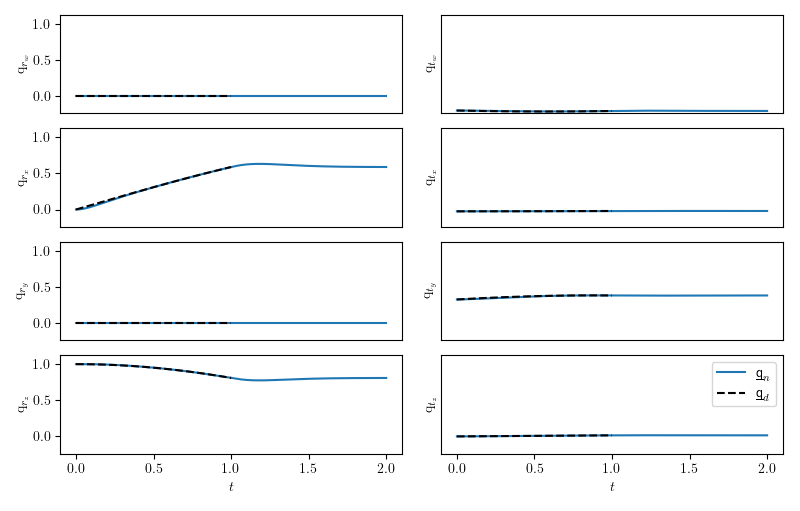
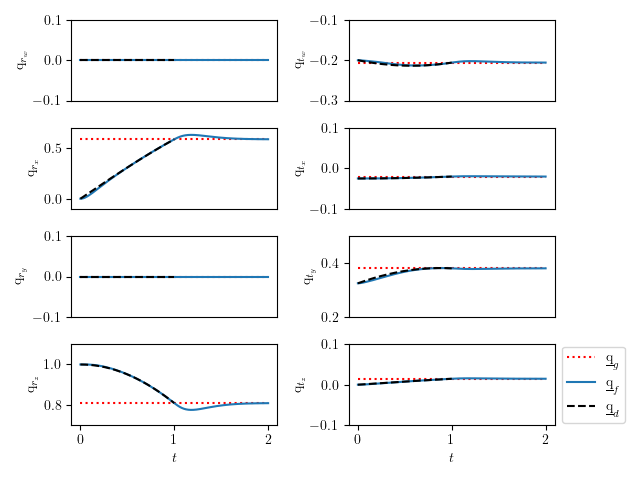
Update figure generation files

diff --git a/src/custom_arm/custom_ur5/src/dmp_test.py b/src/custom_arm/custom_ur5/src/dmp_test.py
@@ -12,6 +12,19 @@ from pyquaternion import Quaternion
 np.set_printoptions(precision=3, suppress=True)
 plt.rcParams.update({"text.usetex": True})
 
+
+def draw_axes(ax, dq_list, l_=.05):
+    for dq_i in dq_list:
+        r_i = dq_i.q_r
+        p_i = 2 * dq_log(dq_i).q_d
+        u_i = r_i.rotate(Quaternion(vector=[1, 0, 0]))
+        v_i = r_i.rotate(Quaternion(vector=[0, 1, 0]))
+        w_i = r_i.rotate(Quaternion(vector=[0, 0, 1]))
+        ax.quiver(p_i.x, p_i.y, p_i.z, u_i.x, u_i.y, u_i.z, length=l_, color=[1,0,0])
+        ax.quiver(p_i.x, p_i.y, p_i.z, v_i.x, v_i.y, v_i.z, length=l_, color=[0,1,0])
+        ax.quiver(p_i.x, p_i.y, p_i.z, w_i.x, w_i.y, w_i.z, length=l_, color=[0,0,1])
+
+
 def main():
     # Generate movement data
     t_vec, dq_vec = gen_movement(r=.40, n=1000)    # .35
@@ -31,54 +44,128 @@ def main():
     dq_0, dq_g = [dq_vec[0], dq_vec[-1]]
     tw_0 = DualQuaternion.from_dq_array(np.zeros(8))
 
-    _, p_vec = pose_from_dq(dq_vec)
-
     tau = 1
     fac = 1
     t_rec = np.linspace(t_vec[0], 2*fac*t_vec[-1], num=fac*t_vec.shape[0])
 
     dq_rec, tw_rec = dmp_obj.fit_model(t_rec, dq_0, tw_0, dq_g, tau=tau)
 
-    # Plot movement data
-    plt.figure()
     dq_vec_npa = dql_to_npa(dq_vec)
     dq_rec_npa = dql_to_npa(dq_rec)
-    min_lim = np.min([dq_vec_npa, dq_rec_npa]) * 1.125
-    max_lim = np.max([dq_vec_npa, dq_rec_npa]) * 1.125
+
+    q_vec, p_vec = pose_from_dq(dq_vec)
+    q_rec, p_rec = pose_from_dq(dq_rec)
+
+    # Plot synthetic data
+    plt.figure()
     txt_var = ["w", "x", "y", "z"]
     for i in range(4):
+        min_lim = np.round(np.min(dq_vec_npa[:, i]), 1) - .1
+        max_lim = np.round(np.max(dq_vec_npa[:, i]), 1) + .1
         label = txt_var[i] 
         evn = 2 * (1 + i % 4)
         plt.subplot(4, 2, evn - 1)
-        plt.plot(t_rec, dq_rec_npa[:, i])
-        plt.plot(t_vec, dq_vec_npa[:, i], '--k')
+        plt.plot(t_vec, dq_vec_npa[:, i])
         plt.ylim(min_lim, max_lim)
         plt.ylabel(r"$\mathrm{q}_{r_%s}$" % label)
         if (i == 3):
             plt.xlabel("$t$")
         else:
             plt.xticks([])
+        min_lim = np.round(np.min(dq_rec_npa[:, i + 4]), 1) - .1
+        max_lim = np.round(np.max(dq_rec_npa[:, i + 4]), 1) + .1
         plt.subplot(4, 2, evn)
-        plt.plot(t_rec, dq_rec_npa[:, i + 4], label=r"$\underline{q}_{n}$")
-        plt.plot(t_vec, dq_vec_npa[:, i + 4], '--k', label=r"$\underline{q}_{d}$")
+        plt.plot(t_vec, dq_vec_npa[:, i + 4])
         plt.ylim(min_lim, max_lim)
         plt.ylabel(r"$\mathrm{q}_{t_%s}$" % label)
-        plt.yticks([])
         if (i == 3):
             plt.xlabel("$t$")
-            plt.legend()
         else:
             plt.xticks([])
-    plt.tight_layout(pad=1.0)
+    plt.tight_layout()
+    plt.show()
+
+    fig = plt.figure()
+    ax_1 = fig.add_subplot(projection='3d')
+    ax_1.plot(p_vec[:, 0], p_vec[:, 1], p_vec[:, 2])
+    draw_axes(ax_1, dq_vec[::99], .02)
+    ax_1.set_proj_type('ortho')
+    ax_1.view_init(elev=0, azim=-90)
+    ax_1.set_box_aspect((1, 1, 1))
+    ax_1.set_xlabel(r'$x$')
+    ax_1.set_yticks([])
+    ax_1.set_zlabel(r'$z$')
+    plt.tight_layout()
+    plt.show()
+
+    fig = plt.figure()
+    ax_1 = fig.add_subplot(projection='3d')
+    ax_1.plot(p_rec[:, 0], p_rec[:, 1], p_rec[:, 2])
+    draw_axes(ax_1, dq_rec[::99], .02)
+    ax_1.set_proj_type('ortho')
+    ax_1.view_init(elev=0, azim=-90)
+    ax_1.set_box_aspect((1, 1, 1))
+    ax_1.set_xlabel(r'$x$')
+    ax_1.set_yticks([])
+    ax_1.set_zlabel(r'$z$')
+    plt.tight_layout()
+    plt.show()
+    
+    # Plot movement data
+    plt.figure()
+    txt_var = ["w", "x", "y", "z"]
+    for i in range(4):
+        min_lim = np.round(np.min(dq_rec_npa[:, i]), 1) - .1
+        max_lim = np.round(np.max(dq_rec_npa[:, i]), 1) + .1
+        label = txt_var[i] 
+        evn = 2 * (1 + i % 4)
+        plt.subplot(4, 2, evn - 1)
+        plt.hlines(dq_vec_npa[-1, i], 0, t_rec[-1], [(1, 0, 0)], "dotted", label=r"$\underline{\mathrm{q}}_g$")
+        plt.plot(t_rec, dq_rec_npa[:, i])
+        plt.plot(t_vec, dq_vec_npa[:, i], "--k")
+        plt.ylim(min_lim, max_lim)
+        plt.ylabel(r"$\mathrm{q}_{r_%s}$" % label)
+        if (i == 3):
+            plt.xlabel("$t$")
+        else:
+            plt.xticks([])
+        min_lim = np.round(np.min(dq_rec_npa[:, i + 4]), 1) - .1
+        max_lim = np.round(np.max(dq_rec_npa[:, i + 4]), 1) + .1
+        plt.subplot(4, 2, evn)
+        plt.hlines(dq_vec_npa[-1, i + 4], 0, t_rec[-1], [(1, 0, 0)], "dotted", label=r"$\underline{\mathrm{q}}_g$")
+        plt.plot(t_rec, dq_rec_npa[:, i + 4], label=r"$\underline{\mathrm{q}}_{f}$")
+        plt.plot(t_vec, dq_vec_npa[:, i + 4], "--k", label=r"$\underline{\mathrm{q}}_{d}$")
+        plt.ylim(min_lim, max_lim)
+        plt.ylabel(r"$\mathrm{q}_{t_%s}$" % label)
+        if (i == 3):
+            plt.xlabel("$t$")
+        else:
+            plt.xticks([])
+    plt.legend(loc='center left', bbox_to_anchor=(1.0, 0.5))
+    plt.tight_layout()
+    plt.show()
 
     # plt.figure()
-    # q_vec, p_vec = pose_from_dq(dq_vec)
-    # q_rec, p_rec = pose_from_dq(dq_rec)
-    # plt.subplot(2, 1, 1)
-    # plt.hlines(p_vec[-1, :], 0, t_rec[-1], None, 'dotted')
-    # plt.plot(t_rec, p_rec)
-    # plt.plot(t_vec, p_vec, '--')
+    # labels = ['x', 'y', 'z']
+    # for i in range(3):
+    #     min_lim = np.round(np.min(p_rec[:, i]), 1) - .05
+    #     max_lim = np.round(np.max(p_rec[:, i]), 1) + .05
+    #     plt.subplot(3, 1, i + 1)
+    #     plt.ylabel(r'$\mathrm{p}_%s$' % labels[i])
+    #     plt.hlines(p_vec[-1, i], 0, t_rec[-1], [(1, 0, 0)], 'dotted', label=r'$\mathrm{p}_g$')
+    #     plt.plot(t_rec, p_rec[:, i], label=r'$\mathrm{p}_f$')
+    #     plt.plot(t_vec, p_vec[:, i], '--k', label=r'$\mathrm{p}_d$')
+    #     plt.ylim(min_lim, max_lim)
+    #     if (i < 2):
+    #         plt.xticks([])
+    #     else:
+    #         plt.xlabel(r'$t$')
+    #         plt.legend(loc='lower right')
+
+    # plt.figure()
     # plt.subplot(2, 1, 2)
+    # plt.xlabel(r'$t$')
+    # plt.ylabel(r'$\mathrm{q}_r$')
     # plt.hlines(q_vec[-1, :], 0, t_rec[-1], None, 'dotted')
     # plt.plot(t_rec, q_rec)
     # plt.plot(t_vec, q_vec, '--')
@@ -104,22 +191,10 @@ def main():
     # ax_1.axes.set_zlim3d(bottom=0., top=1.5)
     # ax_1.set_proj_type('ortho')
 
-    # def draw_axes(dq_list):
-    #     l_ = .05
-    #     for dq_i in dq_list:
-    #         r_i = dq_i.q_r
-    #         p_i = 2 * dq_log(dq_i).q_d
-    #         u_i = r_i.rotate(Quaternion(vector=[1, 0, 0]))
-    #         v_i = r_i.rotate(Quaternion(vector=[0, 1, 0]))
-    #         w_i = r_i.rotate(Quaternion(vector=[0, 0, 1]))
-    #         ax_1.quiver(p_i.x, p_i.y, p_i.z, u_i.x, u_i.y, u_i.z, length=l_, color=[1,0,0])
-    #         ax_1.quiver(p_i.x, p_i.y, p_i.z, v_i.x, v_i.y, v_i.z, length=l_, color=[0,1,0])
-    #         ax_1.quiver(p_i.x, p_i.y, p_i.z, w_i.x, w_i.y, w_i.z, length=l_, color=[0,0,1])
-
-    # draw_axes(dq_vec[::100])
-    # draw_axes(dq_rec[::100])
+    # draw_axes(ax_1, dq_vec[::100])
+    # draw_axes(ax_1, dq_rec[::100])
     
-    plt.show()
+    # plt.show()
 
 
 def convergence_study():
@@ -278,10 +353,10 @@ def dq_tf_example():
         ax.quiver(p_i.x, p_i.y, p_i.z, w_i.x, w_i.y, w_i.z, length=.25, color=c3)
         ax.text(p_i.x, p_i.y, p_i.z, txt, "y", c=ct, va="top")
     
-    draw_axes(dq0, [0, 0, 0], txt=r'$\underline{q}_0$')
-    draw_axes(dq1, txt=r'$\underline{q}_0^1$')
-    draw_axes(dq2, txt=r'$\underline{q}_0^2$')
-    draw_axes(eqb, [1, 0, 1], txt=r'$\underline{q}_1^2$')
+    draw_axes(dq0, [0, 0, 0], txt=r'$\underline{\mathrm{q}}_0$')
+    draw_axes(dq1, txt=r'$\underline{\mathrm{q}}^0_1$')
+    draw_axes(dq2, txt=r'$\underline{\mathrm{q}}^0_2$')
+    draw_axes(eqb, [1, 0, 1], txt=r'$\underline{\mathrm{q}}^1_2$')
 
     ax.axes.set_xlim3d(left=-0.5, right=1.5)
     ax.axes.set_ylim3d(bottom=-1.0, top=1.0)
@@ -301,4 +376,4 @@ def dq_tf_example():
 if __name__ == "__main__":
     main()
     # convergence_study()
-    # dq_tf_example()
+    dq_tf_example()

diff --git a/src/custom_arm/custom_ur5/src/pm_test.py b/src/custom_arm/custom_ur5/src/pm_test.py
@@ -10,17 +10,20 @@ from custom_tools.projectile_launching import gen_movement, ProjectileLaunching
 from mpl_toolkits.mplot3d import Axes3D
 from pyquaternion import Quaternion
 
+np.set_printoptions(precision=3, suppress=True)
+plt.rcParams.update({"text.usetex": True})
+
 
 def draw_plane(ax, n, p):
     p_1 = Quaternion([0, 0, 0, 1])
     q_1 = (0.5 * (p_1*n - n*p_1)).normalised
     ln1 = np.linspace(-1, 1, num=10)
-    ln2 = np.linspace(-2, 2, num=10)
+    ln2 = np.linspace(-.5, 1.5, num=10)
     ln1, ln2 = np.meshgrid(ln1, ln2)
     xx = p.x + p_1.x*ln1 + q_1.x*ln2
     yy = p.y + p_1.y*ln1 + q_1.y*ln2
     zz = p.z + p_1.z*ln1 + q_1.z*ln2
-    ax.plot_surface(xx, yy, zz, alpha=0.25)
+    ax.plot_surface(xx, yy, zz, alpha=0.25, antialiased=False)
 
 
 def draw_axes(ax, dq_list):
@@ -46,7 +49,7 @@ def main():
 
     # Set Cartesian target
     p_r = Quaternion(axis=[0, 0, 1], angle=-0.25 * np.pi)
-    p_t = Quaternion(vector=[0.50, 0.00, 0.02])
+    p_t = Quaternion(vector=[1.00, 0.00, 0.02])
     p_t = p_r.rotate(p_t)
 
     p_l_obj = ProjectileLaunching()
@@ -69,8 +72,8 @@ def main():
     p_p = q_r.rotate(p_g)
 
     t_f, v_0 = p_l_obj.optimal_v_launch(p_p, p_t)
-    p_est = p_l_obj.simulate_launch(t_f, v_0, p_p)
-    p_dem = p_l_obj.simulate_launch(t_f, v_g, p_g)
+    p_est, t_est = p_l_obj.simulate_launch(t_f, v_0, p_p)
+    p_dem, t_dem = p_l_obj.simulate_launch(t_f, v_g, p_g)
 
     q_v = quat_rot(q_r.conjugate.rotate(v_0), v_g)
     tau = v_g.norm / v_0.norm
@@ -89,28 +92,35 @@ def main():
     tw_f = tw_rec[-1]
     p_f = 2 * dq_log(dq_f).q_d
     v_f = vel_from_twist(dq_f, dq_f * tw_f * dq_f.quaternion_conjugate())
-    p_fnl = p_l_obj.simulate_launch(t_f, v_f, p_f)
+    p_fnl, t_fnl = p_l_obj.simulate_launch(t_f, v_f, p_f)
     err_g = (p_p - p_f).norm
     err_t = (p_est[-1] - p_fnl[-1]).norm
     err_v = (v_f - v_0).norm
+    print("target : ", p_t.elements[1:])
     print("err goal = %5.5f, err target = %5.3f" % (err_g, err_t))
     print("tau = %5.3f, err vel = %5.3f" % (tau, err_v))
 
-    p_lnc = np.array([p_i.elements for p_i in p_est])
-    p_fnl = np.array([p_i.elements for p_i in p_fnl])
-    p_thr = np.array([p_i.elements for p_i in p_dem])
+    p_the = p_fnl[-1]
+
+    p_lnc = np.array([p_i.elements[1:] for p_i in p_est])
+    p_fnl = np.array([p_i.elements[1:] for p_i in p_fnl])
+    p_thr = np.array([p_i.elements[1:] for p_i in p_dem])
 
     ax = plt.figure().add_subplot(111, projection='3d')
+    ax.set_xlabel(r'$x$')
+    ax.set_ylabel(r'$y$')
+    ax.set_zlabel(r'$z$')
     # ax.plot([0], [0], [0], '*k')
+    ax.plot([p_the.x], [p_the.y], [p_the.z], 'ob')
     ax.plot([p_t.x], [p_t.y], [p_t.z], 'or')
     ax.plot([p_g.x], [p_g.y], [p_g.z], 'xk')
     ax.plot(p_vec[:, 0], p_vec[:, 1], p_vec[:, 2], 'k')
-    ax.plot(p_thr[:, 1], p_thr[:, 2], p_thr[:, 3], ':k')
+    # ax.plot(p_thr[:, 1], p_thr[:, 2], p_thr[:, 3], ':k')
     ax.quiver(p_g.x, p_g.y, p_g.z, n_g.x, n_g.y, n_g.z, length=0.2, colors=[0,0,0,1])
     ax.quiver(p_g.x, p_g.y, p_g.z, v_g.x, v_g.y, v_g.z, length=0.2, colors=[1,0,0,1])
     ax.plot([p_p.x], [p_p.y], [p_p.z], 'xb')
-    ax.plot(p_lnc[:, 1], p_lnc[:, 2], p_lnc[:, 3], ':b')
-    ax.plot(p_fnl[:, 1], p_fnl[:, 2], p_fnl[:, 3], ':m')
+    ax.plot(p_lnc[:, 0], p_lnc[:, 1], p_lnc[:, 2], ':b')
+    ax.plot(p_fnl[:, 0], p_fnl[:, 1], p_fnl[:, 2], ':m')
     ax.plot(p_rec[:, 0], p_rec[:, 1], p_rec[:, 2], 'b')
     ax.quiver(p_p.x, p_p.y, p_p.z, n_p.x, n_p.y, n_p.z, length=0.2, colors=[0,0,1,1])
     ax.quiver(p_p.x, p_p.y, p_p.z, v_0.x, v_0.y, v_0.z, length=0.2, colors=[0,0,1,1])
@@ -119,10 +129,14 @@ def main():
     # draw_axes(ax, dq_rec)
     draw_plane(ax, n_g, p_g)
     draw_plane(ax, n_p, p_p)
-    ax.axes.set_xlim3d(left=-0.5, right=1.5)
-    ax.axes.set_ylim3d(bottom=-0.5, top=1.5)
-    ax.axes.set_zlim3d(bottom=0., top=1.5)
+    # ax.set_box_aspect((1, 1, 1))
+    ax.axes.set_xlim3d(left=-1, right=1)
+    ax.axes.set_ylim3d(bottom=-1, top=1)
+    ax.axes.set_zlim3d(bottom=0, top=2)
     ax.set_proj_type('ortho')
+    ax.view_init(elev=15, azim=-150)
+    # plt.legend(loc='center left', bbox_to_anchor=(1.0, 0.5))
+    plt.tight_layout()
     plt.show()
 
 

diff --git a/src/custom_arm/custom_ur5/src/sandbox.py b/src/custom_arm/custom_ur5/src/sandbox.py
@@ -46,9 +46,7 @@ def main():
     t_scale = .25
     dq_t = DualQuaternion.from_quat_pose_array(np.append([1, 0, 0, 0], p_t.elements[1:]))
     arm_mng.load_gazebo_ball(dq_t, id_=0)
-    # Get original ball pose
-    # target_pos = arm_mng.get_gazebo_object_pose("ball_%i" % 0).position
-    # target_pos = np.array([target_pos.x, target_pos.y, target_pos.z])
+    
     rospy.sleep(1)
     arm_mng.delete_gazebo_balls()
 
@@ -124,11 +122,10 @@ def main():
         print("Mean Ball Pose Difference\n", p_err_mean)
         print("Mean Ball Pose Difference Norm\n", p_err_norm_mean)
         print("Mean Ball Pose Difference Std. Dev.\n", p_err_norm_stdd)
-
+    
     c_time = time.strftime("%Y%m%d%H%M%S")
     file_name = "-".join(["throw_data", str(c_time)])
     file_path = RosPack().get_path("custom_ur5") + "/resources/"
-    # np.savez_compressed(file_path + file_name, data=t_pos, ball_pos_l=b_pos)
     with open(file_path + file_name + ".pkl", "wb") as handle:
         pickle.dump(data_dict, handle, protocol=pickle.HIGHEST_PROTOCOL)
 
